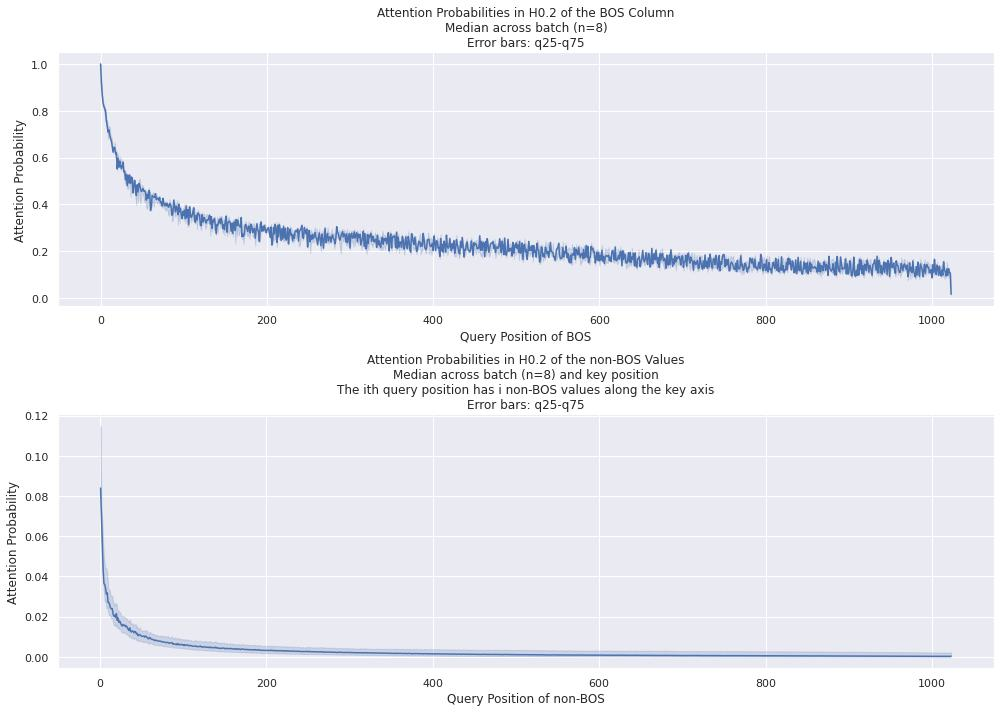
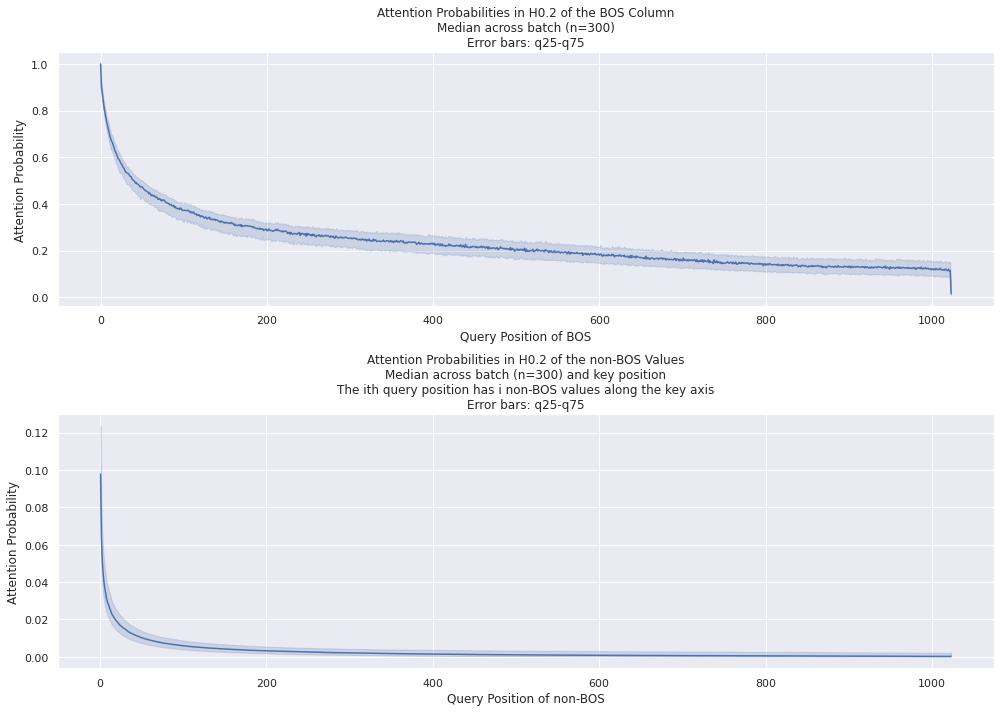
rerun plots

diff --git a/figure_recreation/fig9_DLA_barplots.py b/figure_recreation/fig9_DLA_barplots.py
@@ -35,8 +35,8 @@ torch.set_grad_enabled(False)
 device = "cpu"
 
 # Number of prompts to use for resample ablation
-N_TEXT_PROMPTS = 8
-N_CODE_PROMPTS = 2
+N_TEXT_PROMPTS = 240
+N_CODE_PROMPTS = 60
 FIG_FILEPATH = "figs/fig9_DLA_barplots.jpg"
 
 # Transformer Lens model names:
@@ -210,7 +210,7 @@ for i in range(len(examples)):
         data=df.query(f"example == {i}"),
         x="method",
         y="contribution",
-        errorbar=("pi", 99),
+        errorbar=("pi", 75),
         ax=ax[i]
     )
     ax[i].axhline(0, color="black", linestyle="--")
@@ -229,7 +229,8 @@ for i in range(len(examples)):
 fig.suptitle(
     f"Contribution of H0.2 to logit difference between correct and incorrect tokens,"
     f" according to DLA and resampling ablation\n"
-    f"Resample ablation is done with {N_TEXT_PROMPTS + N_CODE_PROMPTS} random prompts"
+    f"Resample ablation is done with {N_TEXT_PROMPTS + N_CODE_PROMPTS} random prompts\n"
+    f"Error bars: q25 - q75"
 )
 fig.tight_layout()
 

diff --git a/figure_recreation/fig4_H2_X_lineplots.py b/figure_recreation/fig4_H2_X_lineplots.py
@@ -24,8 +24,8 @@ sns.set()
 torch.set_grad_enabled(False)
 device = "cpu"
 
-N_TEXT_PROMPTS = 2
-N_CODE_PROMPTS = 1
+N_TEXT_PROMPTS = 240
+N_CODE_PROMPTS = 60
 WRITER_NAME = "H0.2"
 FIG_FILEPATH = "figs/fig4_H2_X_onto_H0_2_lineplots.jpg"
 
@@ -112,7 +112,7 @@ ax[1].set_title(
     f"Median across batch (n={prompts.shape[0]})\n"
     f"Error bars: q25 - q75"
 )
-ax[1].set_xlabel("Projection Ratio")
+ax[1].set_xlabel("Position")
 ax[1].set_ylabel("Projection Ratio")
 
 fig.tight_layout()

diff --git a/figure_recreation/fig3_patch_v_input_cleaners.py b/figure_recreation/fig3_patch_v_input_cleaners.py
@@ -28,8 +28,8 @@ sns.set()
 torch.set_grad_enabled(False)
 device = "cpu"
 
-N_TEXT_PROMPTS = 2
-N_CODE_PROMPTS = 1
+N_TEXT_PROMPTS = 240
+N_CODE_PROMPTS = 60
 FIG_A_FILEPATH = "figs/fig3a_patch_v_input_resid_lineplot.jpg"
 FIG_B_FILEPATH = "figs/fig3b_patch_v_input_head_barplot.jpg"
 

diff --git a/figure_recreation/fig5_attn_pattern_H0_2.py b/figure_recreation/fig5_attn_pattern_H0_2.py
@@ -34,8 +34,8 @@ FIG_B_FILEPATH = "figs/fig5b_attn_pattern_H0_2.jpg"
 MODEL_NAME = "gelu-4l"
 N_TOKENS_FOR_HEATMAP = 20
 
-N_TEXT_PROMPTS = 7
-N_CODE_PROMPTS = 1
+N_TEXT_PROMPTS = 240
+N_CODE_PROMPTS = 60
 
 
 #%%
